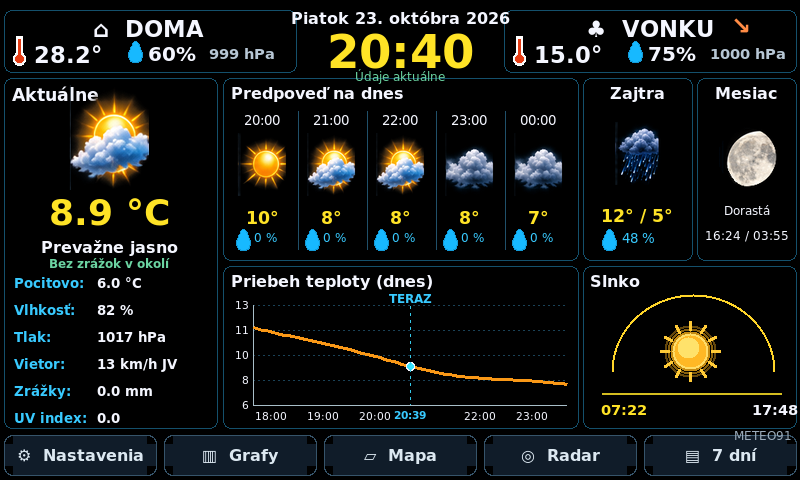
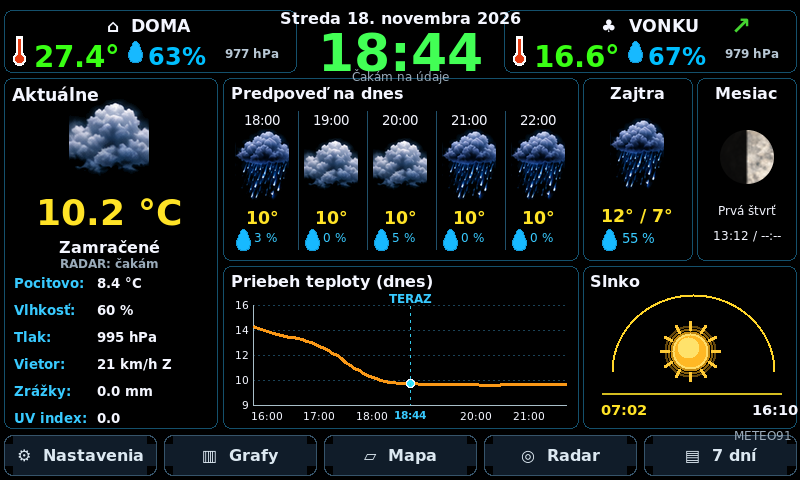
PUBLIC FOTO 2026-11-18_18-59-26

diff --git a/README.md b/README.md
@@ -14,7 +14,21 @@ Vzdialené zobrazenie a ovládanie cez mobilný telefón
 
 Nastavenie meteostanice priamo na displeji
 
-![Hlavná obrazovka meteostanice – 7" displej](METEO_OBRAZOVKA.png)
+<!-- METEO PUBLIC FOTO START -->
+
+### Hlavna obrazovka
+
+![Hlavna obrazovka meteostanice](METEO_OBRAZOVKA.png)
+
+### Hodiny
+
+![Obrazovka s hodinami](METEO_HODINY.png)
+
+### SETUP
+
+![Obrazovka nastaveni SETUP](METEO_SETUP.png)
+
+<!-- METEO PUBLIC FOTO END -->
 
 Zdrojový kód projektu nie je verejne dostupný. 
 
